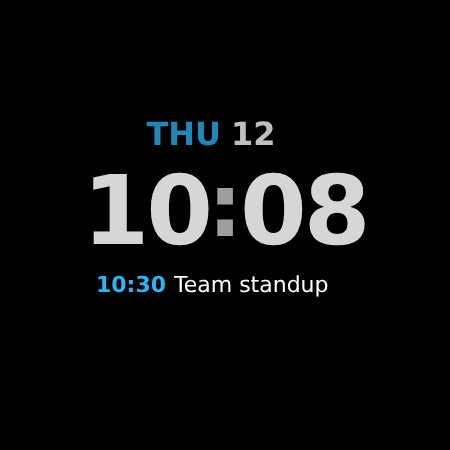
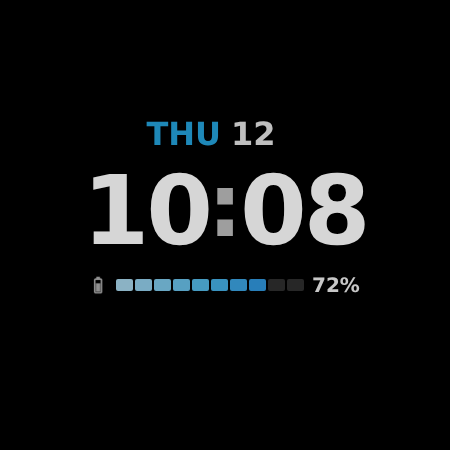
Show a battery bar instead of the next meeting in ambient mode
In ambient, the first meeting row is hidden and a battery bar takes its place: the
battery icon, 10 small bars (light blue when low, darker when full) and the percentage.
The bar is hidden while interactive. Docs and the ambient screenshot are updated.

Claude-Session: https://claude.ai/code/session_01G6VuNLxzPrNSJkzHyPJKuR

Changed region(s): [[0.1867, 0.5911, 0.8089, 0.6533]]

diff --git a/tools/generate_watchface.py b/tools/generate_watchface.py
@@ -581,8 +581,8 @@ def draw_meeting_slot(x: Xml, slot_id: int, y: int, second: bool) -> None:
            defaultSystemProviderType="SHORT_TEXT" if second else "LONG_TEXT",
            primaryProvider=f"{PROVIDER_PKG}/{PROVIDER_PKG}.calendar.{service}",
            primaryProviderType="LONG_TEXT")
-    if second:
-        x.leaf("Variant", mode="AMBIENT", target="alpha", value=0)
+    # Ambient shows the battery bar in this place instead (see draw_ambient_battery).
+    x.leaf("Variant", mode="AMBIENT", target="alpha", value=0)
     size = 19 if second else 22
     title_color = "[CONFIGURATION.accent.0]"
     text_alpha = "#99FFFFFF" if second else "#FFFFFFFF"
@@ -629,6 +629,47 @@ def draw_meeting_slot(x: Xml, slot_id: int, y: int, second: bool) -> None:
     empty_group(x, f"meeting_{slot_id}_empty")
     x.close("Complication")
     x.close("ComplicationSlot")
+
+
+# --------------------------------------------------------------------------------------
+# Ambient battery bar (in place of the next meeting)
+# --------------------------------------------------------------------------------------
+AMB_BATT_ICON = 20
+AMB_BATT_SEG_X, AMB_BATT_SEG_W, AMB_BATT_SEG_GAP, AMB_BATT_SEG_H = 28, 17, 2, 12
+AMB_BATT_TEXT_X = AMB_BATT_SEG_X + 10 * (AMB_BATT_SEG_W + AMB_BATT_SEG_GAP) + 6
+AMB_BATT_ALPHA = 200  # a little dimmer than the time, like the rest of ambient
+
+
+def draw_ambient_battery(x: Xml) -> None:
+    """Battery as 10 small bars + percentage, shown only in ambient where the meeting row is.
+
+    Hidden (alpha 0) in interactive mode; the AMBIENT variant brings it in. It uses the same
+    light (low) -> darker (full) colors as the battery arc.
+    """
+    battery = METRICS["battery"]
+    n = battery.segments or 10
+    x.open("Group", name="ambient_battery", x=MEET_X, y=MEET1_Y, width=MEET_W, height=MEET_H, alpha=0)
+    x.leaf("Variant", mode="AMBIENT", target="alpha", value=AMB_BATT_ALPHA)
+    x.open("PartImage", x=0, y=(MEET_H - AMB_BATT_ICON) / 2, width=AMB_BATT_ICON, height=AMB_BATT_ICON,
+           tintColor="#FFBDBDBD")
+    x.leaf("Image", resource=battery.icon)
+    x.close("PartImage")
+    seg_y = (MEET_H - AMB_BATT_SEG_H) / 2
+    r = 2
+    for i in range(n):
+        sx = AMB_BATT_SEG_X + i * (AMB_BATT_SEG_W + AMB_BATT_SEG_GAP)
+        for lit in (False, True):
+            x.open("PartDraw", x=sx, y=seg_y, width=AMB_BATT_SEG_W, height=AMB_BATT_SEG_H)
+            if lit:
+                x.leaf("Transform", target="alpha", value=f"({battery.value}) > {i / n:g} ? 255 : 0")
+            x.open("RoundRectangle", x=0, y=0, width=AMB_BATT_SEG_W, height=AMB_BATT_SEG_H,
+                   cornerRadiusX=r, cornerRadiusY=r)
+            x.leaf("Fill", color=segment_color(battery, i) if lit else "#33FFFFFF")
+            x.close("RoundRectangle")
+            x.close("PartDraw")
+    text_part(x, px=AMB_BATT_TEXT_X, py=0, w=MEET_W - AMB_BATT_TEXT_X, h=MEET_H, template=battery.text_format,
+              params=[battery.text], size=20, weight="SEMI_BOLD", align="START")
+    x.close("Group")
 
 
 # --------------------------------------------------------------------------------------
@@ -851,6 +892,7 @@ def build_xml() -> str:
     draw_meeting_slot(x, 10, MEET1_Y, second=False)
     draw_meeting_slot(x, 11, MEET2_Y, second=True)
     draw_thermometer_slot(x)
+    draw_ambient_battery(x)
     x.close("Scene")
     x.close("WatchFace")
     return x.text()
@@ -1024,7 +1066,9 @@ def build_preview_svg(layout: dict[str, str], single_accent: str | None = None,
                  f'text-anchor="end" letter-spacing="-3">10</text>'
                  f'<text x="225" y="{TIME_Y + 84}" fill="#BDBDBD" font-size="88" font-weight="700" text-anchor="middle">:</text>'
                  f'<text x="240" y="{TIME_Y + 92}" fill="#fff" font-size="96" font-weight="700" letter-spacing="-3">08</text></g>')
-    rows = meetings[:1] if ambient else meetings
+    if ambient:
+        parts.append(preview_ambient_battery(icons_dir))
+    rows = () if ambient else meetings
     for i, (t, title) in enumerate(rows):
         y = (MEET1_Y if i == 0 else MEET2_Y) + 22
         size = 22 if i == 0 else 19
@@ -1041,6 +1085,25 @@ def build_preview_svg(layout: dict[str, str], single_accent: str | None = None,
         parts.append(preview_thermometer(single_accent and acc))
     parts.append("</svg>")
     return "\n".join(parts)
+
+
+def preview_ambient_battery(icons_dir: str) -> str:
+    battery = METRICS["battery"]
+    n, v = battery.segments or 10, battery.preview_value
+    ox, oy = MEET_X, MEET1_Y
+    out = [f'<g opacity="{AMB_BATT_ALPHA / 255:.2f}">',
+           f'<image x="{ox}" y="{oy + (MEET_H - AMB_BATT_ICON) / 2}" width="{AMB_BATT_ICON}" '
+           f'height="{AMB_BATT_ICON}" href="{icons_dir}{battery.icon}_BDBDBD.png"/>']
+    for i in range(n):
+        sx = ox + AMB_BATT_SEG_X + i * (AMB_BATT_SEG_W + AMB_BATT_SEG_GAP)
+        lit = v > i / n
+        col = hex6(segment_color(battery, i)) if lit else "#FFFFFF"
+        op = 1 if lit else 0.2
+        out.append(f'<rect x="{sx}" y="{oy + (MEET_H - AMB_BATT_SEG_H) / 2}" width="{AMB_BATT_SEG_W}" '
+                   f'height="{AMB_BATT_SEG_H}" rx="2" fill="{col}" fill-opacity="{op}"/>')
+    out.append(f'<text x="{ox + AMB_BATT_TEXT_X}" y="{oy + 22}" fill="#fff" font-size="20" '
+               f'font-weight="600">{battery.preview_text}</text></g>')
+    return "".join(out)
 
 
 def preview_thermometer(single: str | None) -> str:
@@ -1072,7 +1135,8 @@ def write_previews() -> None:
     # Pre-tinted copies of metric icons for the SVG preview.
     for metric in METRICS.values():
         base = Image.open(drawables / f"{metric.icon}.png").convert("RGBA")
-        cols = {lerp_color(metric.colors, min(metric.preview_value, 0.999))} | {hex6(a[2]) for a in ACCENTS}
+        cols = ({lerp_color(metric.colors, min(metric.preview_value, 0.999))} | {hex6(a[2]) for a in ACCENTS}
+                | {"#BDBDBD"})
         for col in cols:
             r, g, b = (int(col[i:i + 2], 16) for i in (1, 3, 5))
             tinted = Image.new("RGBA", base.size, (r, g, b, 255))

diff --git a/README.md b/README.md
@@ -48,8 +48,8 @@ your **skin temperature** on watches that measure it.
 <b>Free afternoon.</b> When the calendar is clear, it says so.
 </td>
 <td width="33%" align="center" valign="top">
-<img src="docs/screenshots/preview_ambient.png" width="220" alt="Ambient mode: only date, time and the next meeting"><br>
-<b>Ambient.</b> Only the date, time and next meeting, to save battery.
+<img src="docs/screenshots/preview_ambient.png" width="220" alt="Ambient mode: date, time and a battery bar"><br>
+<b>Ambient.</b> Just the date, time and how much battery is left.
 </td>
 </tr>
 </table>
@@ -68,6 +68,7 @@ your **skin temperature** on watches that measure it.
 | 📅 Under it | Weekday and day, `THU 12` | Weekday in your accent color |
 | 🕙 Center | The time, in 12 or 24 h like your watch | – |
 | 🗓 Under the time | Your next meeting and the one after it: `10:30  Team standup`, `Now` while it runs, or *No more meetings today* | Time in your accent color |
+| 🔋 Ambient only | In place of the meetings: a battery bar and the percentage | Light → darker blue |
 | 🌡 At the bottom | **Skin temperature** as a thermometer, e.g. `33.6°` | Cool blue → warm orange → red, by wrist temperature |
 
 Each continuous bar has a white dot at its tip and a small icon with the value next to it. The icon takes
@@ -154,7 +155,8 @@ Dashface is built to sip power:
   your face.
 - **Skin temperature takes one quick reading every 15 minutes at most**, only while the face is
   showing, and lets go of the sensor right away.
-- **Ambient mode** hides the bars, weather and thermometer.
+- **Ambient mode** shows only the date, time and a small battery bar. The bezel bars, weather,
+  meetings and thermometer are hidden.
 
 ## Common questions
 

diff --git a/Development.md b/Development.md
@@ -93,8 +93,11 @@ flowchart LR
 - **Segmented battery.** Battery (`segments=10` in the generator) is drawn as 10 short arcs,
   each with a static color from light (low) to darker (full). Bar *i* is shown when the level is
   above *i*/10 through an `alpha` transform, so 1–10 % lights the first bar. No knob.
-- **Ambient mode** keeps only the time, date and next meeting. All bars, the weather, the
-  thermometer and gradients are hidden.
+- **Ambient mode** keeps only the time, the date and a small battery bar (10 rounded bars and
+  the percentage) in the first meeting row's place. Both meeting rows, the bezel bars, the
+  weather, the thermometer and gradients are hidden. The battery bar is a top-level group with
+  `alpha="0"` and an `AMBIENT` variant that brings it to 200, so it costs nothing while
+  interactive.
 - **Small assets.** Weather icons are 48 px, metric icons 24 px, and the images that can be
   on screen total well under 1 MB.
 
